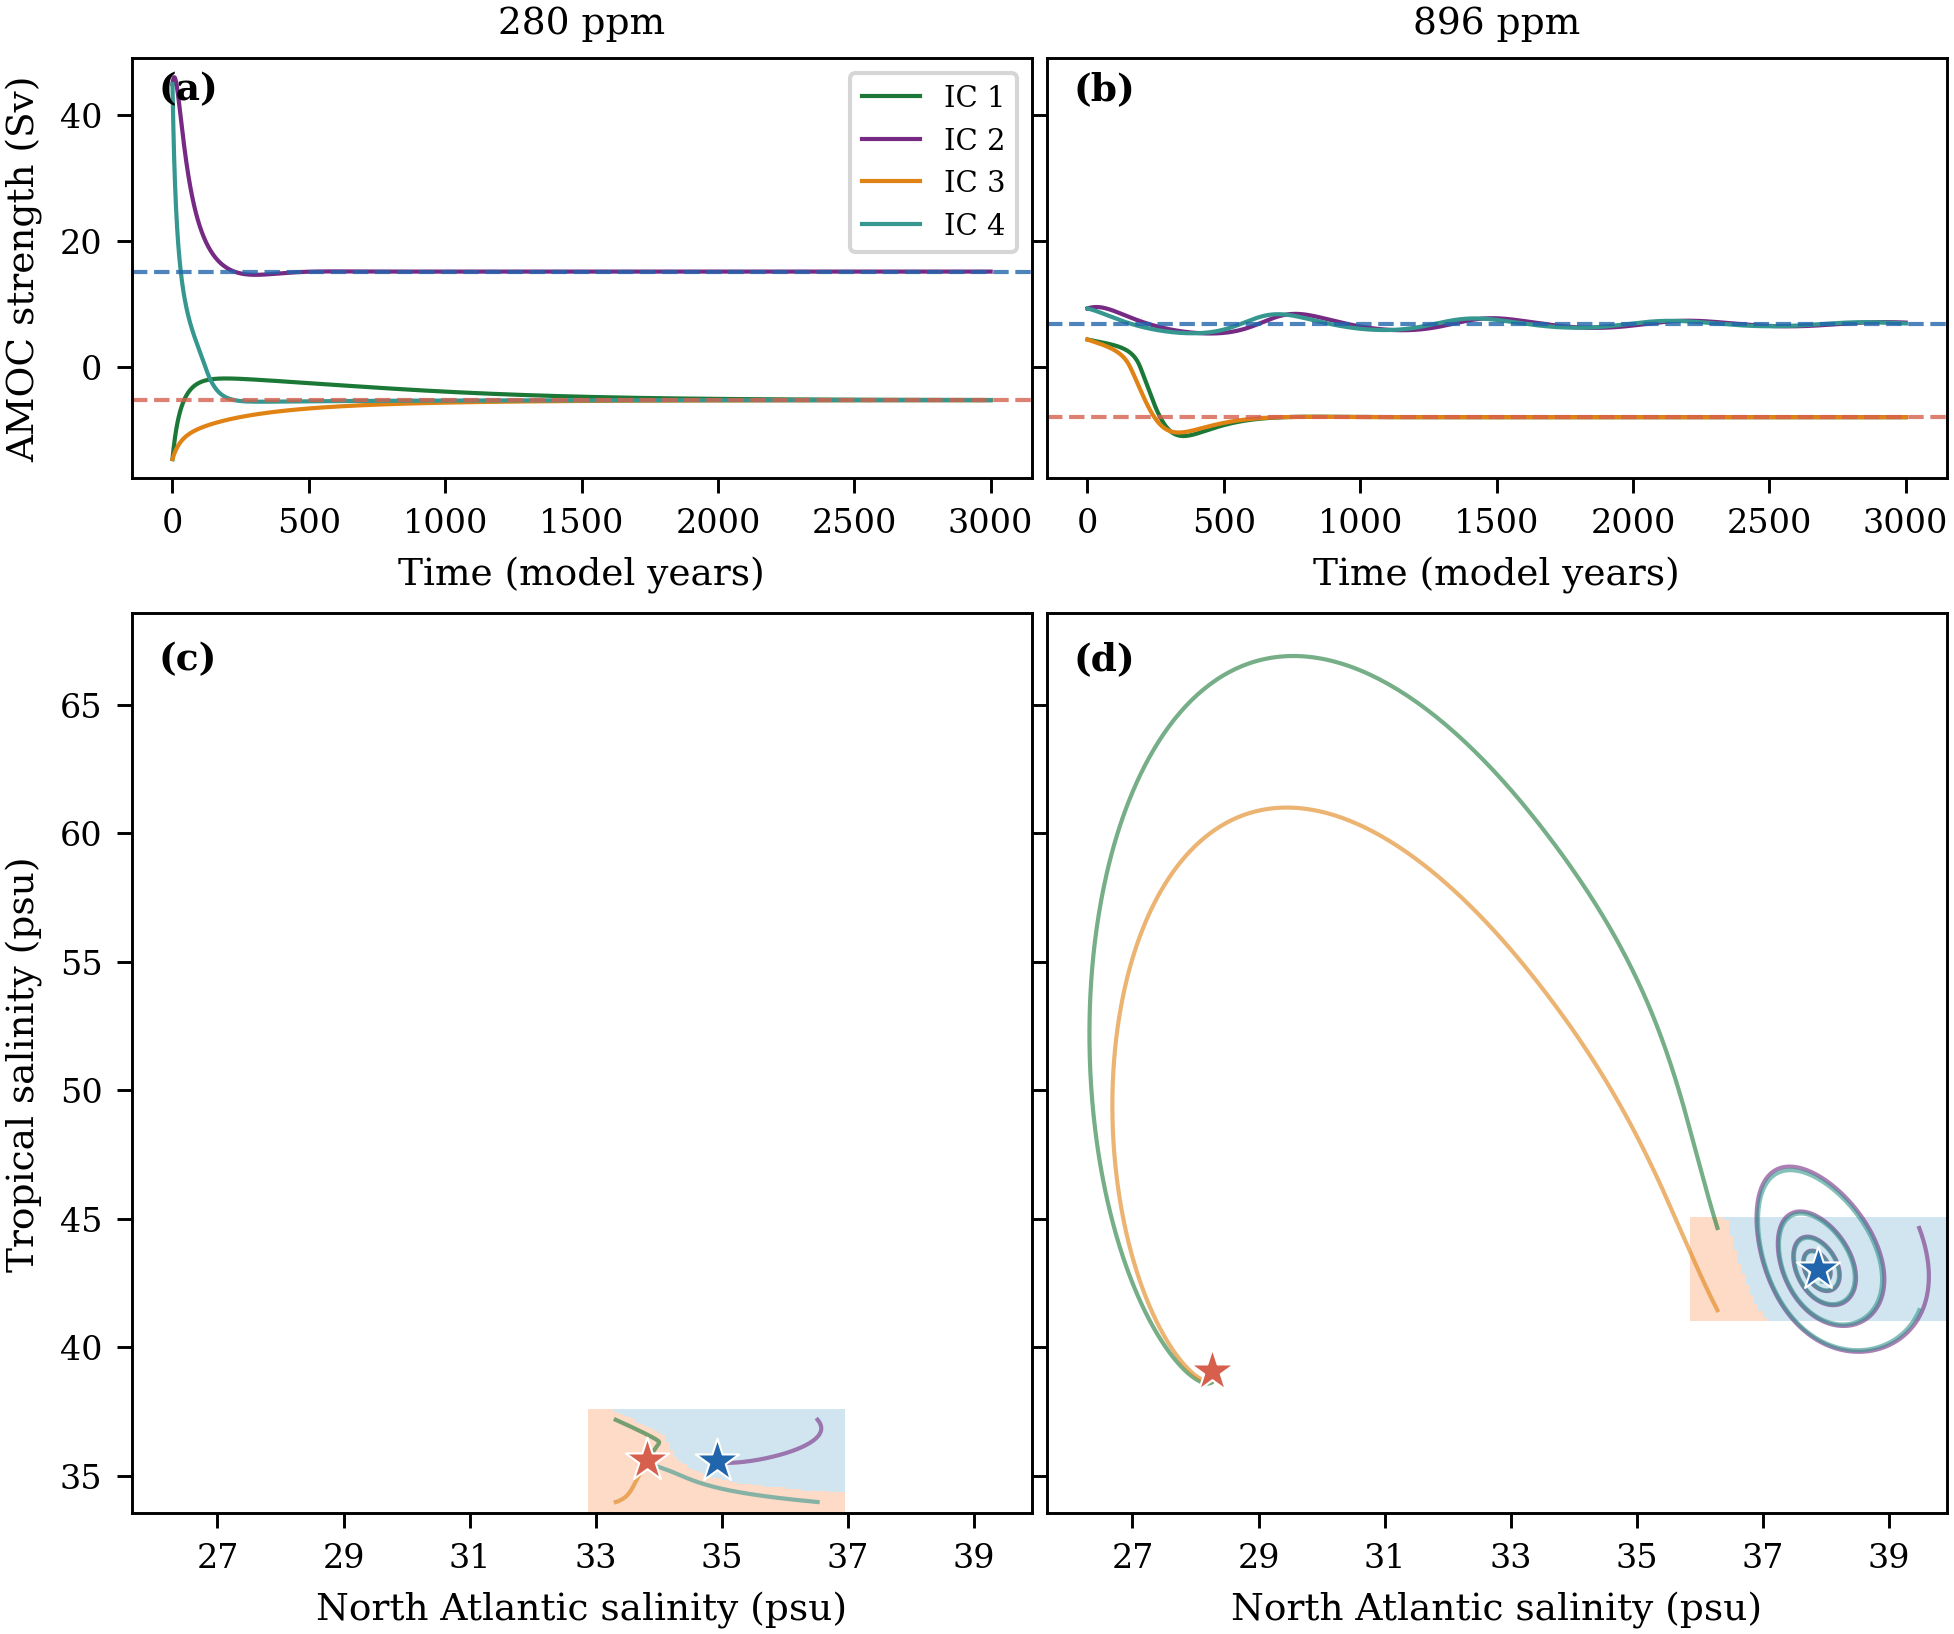
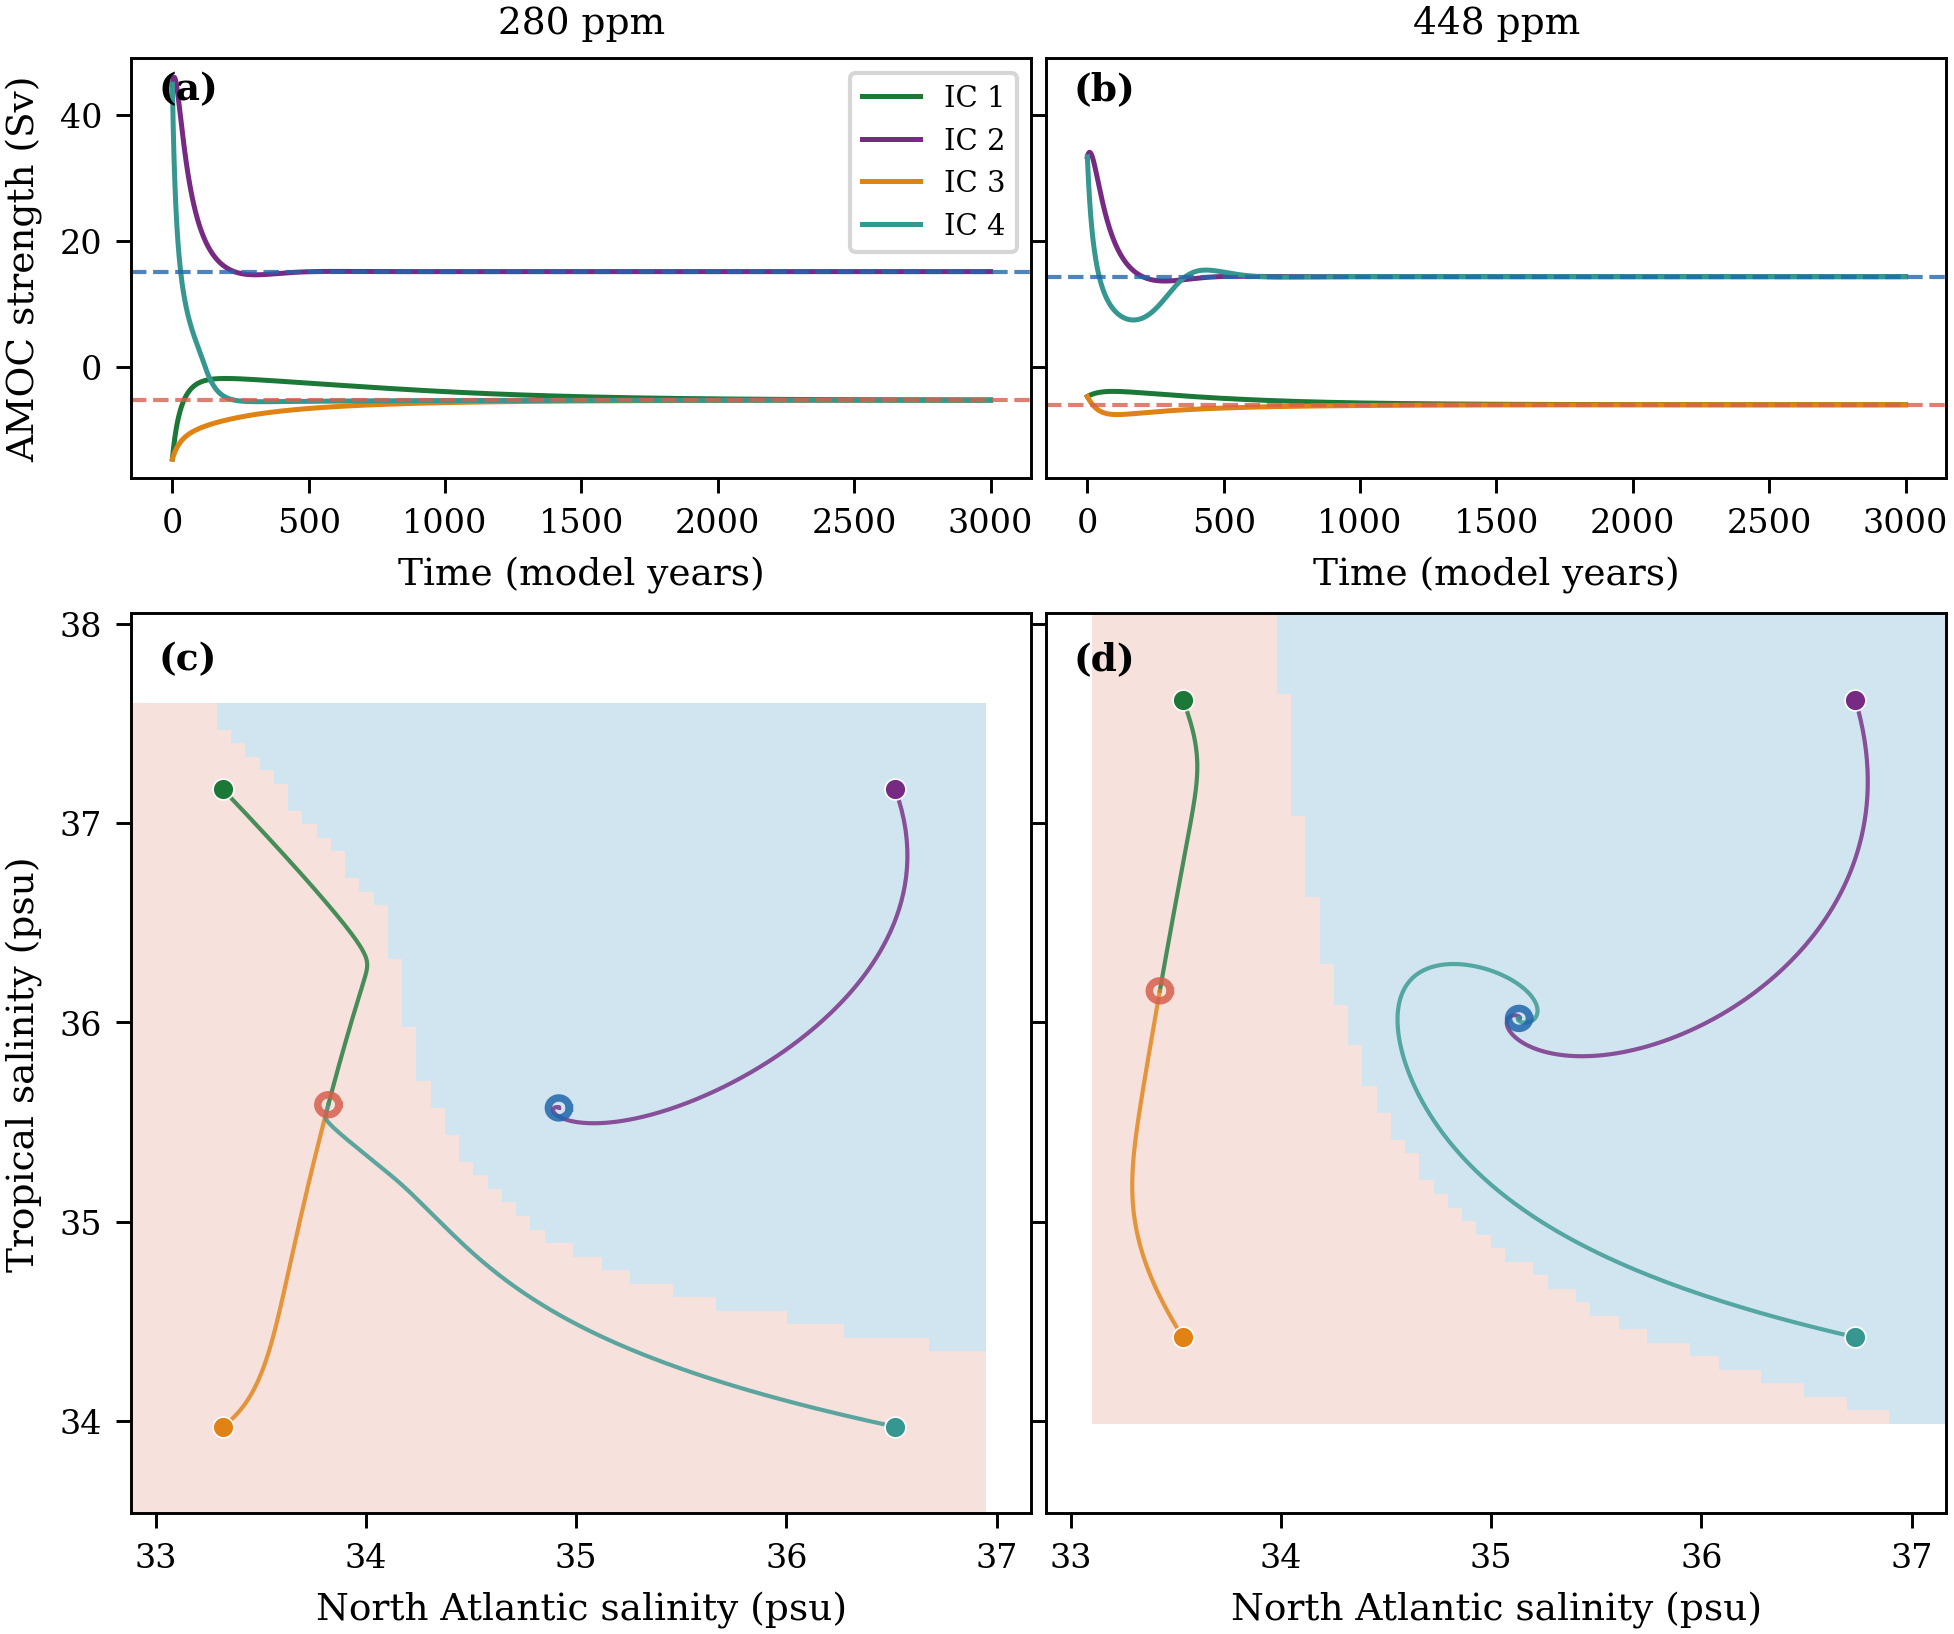
Update paper figure: start markers, consistent lw/alpha, off-basin color, neighbourhood circles

diff --git a/scripts/plotting_paper.py b/scripts/plotting_paper.py
@@ -49,7 +49,7 @@ from amoc_plot_style import (
 
 SCENARIOS = [
     ("280ppm",  "280 ppm"),
-    ("896ppm", "896 ppm"),
+    ("448ppm", "448 ppm"),
 ]
 
 
@@ -126,7 +126,7 @@ def main() -> None:
             t_arr  = sub["time"].values
             q_arr  = sub["q"].values
             lbl    = f"IC {k + 1}"
-            (line,) = ax_top.plot(t_arr, q_arr, color=color, lw=1.0, label=lbl)
+            (line,) = ax_top.plot(t_arr, q_arr, color=color, lw=1.2, label=lbl)
             legend_handles.append(line)
             legend_labels.append(lbl)
 
@@ -190,15 +190,20 @@ def main() -> None:
             color = TRAJ_COLORS[k % len(TRAJ_COLORS)]
             sub   = df_trajs[df_trajs["traj_id"] == tid].sort_values("time")
             ax_bot.plot(sub["S_N"].values, sub["S_T"].values,
-                        color=color, alpha=0.6, lw=1.0)
+                        color=color, alpha=0.8, lw=1.0)
+            ax_bot.scatter(sub["S_N"].values[0], sub["S_T"].values[0],
+                           marker="o", s=25, color=color, zorder=3,
+                           edgecolors="white", linewidths=0.4)
 
         # Attractor markers
-        ax_bot.scatter([sn_on],  [st_on],
-                       marker="*", s=120, color=COL_ON,  zorder=5,
-                       edgecolors="white", linewidths=0.5)
-        ax_bot.scatter([sn_off], [st_off],
-                       marker="*", s=120, color=COL_OFF, zorder=5,
-                       edgecolors="white", linewidths=0.5)
+
+        # Neighbourhood circles of radius 0.05 psu (= 0.005 model units)
+        theta = np.linspace(0, 2 * np.pi, 300)
+        r = 0.005
+        for center, color in [((sn_on, st_on), COL_ON), ((sn_off, st_off), COL_OFF)]:
+            ax_bot.plot(center[0] + r * np.cos(theta),
+                        center[1] + r * np.sin(theta),
+                        color=color, lw=1.8, ls="-", alpha=0.85, zorder=4)
 
         # Convert raw model salinity units to psu: 0 → 35 psu, step 0.1 → 1 psu
         sal_fmt = mticker.FuncFormatter(lambda x, _: f"{35 + x * 10:.0f}")
